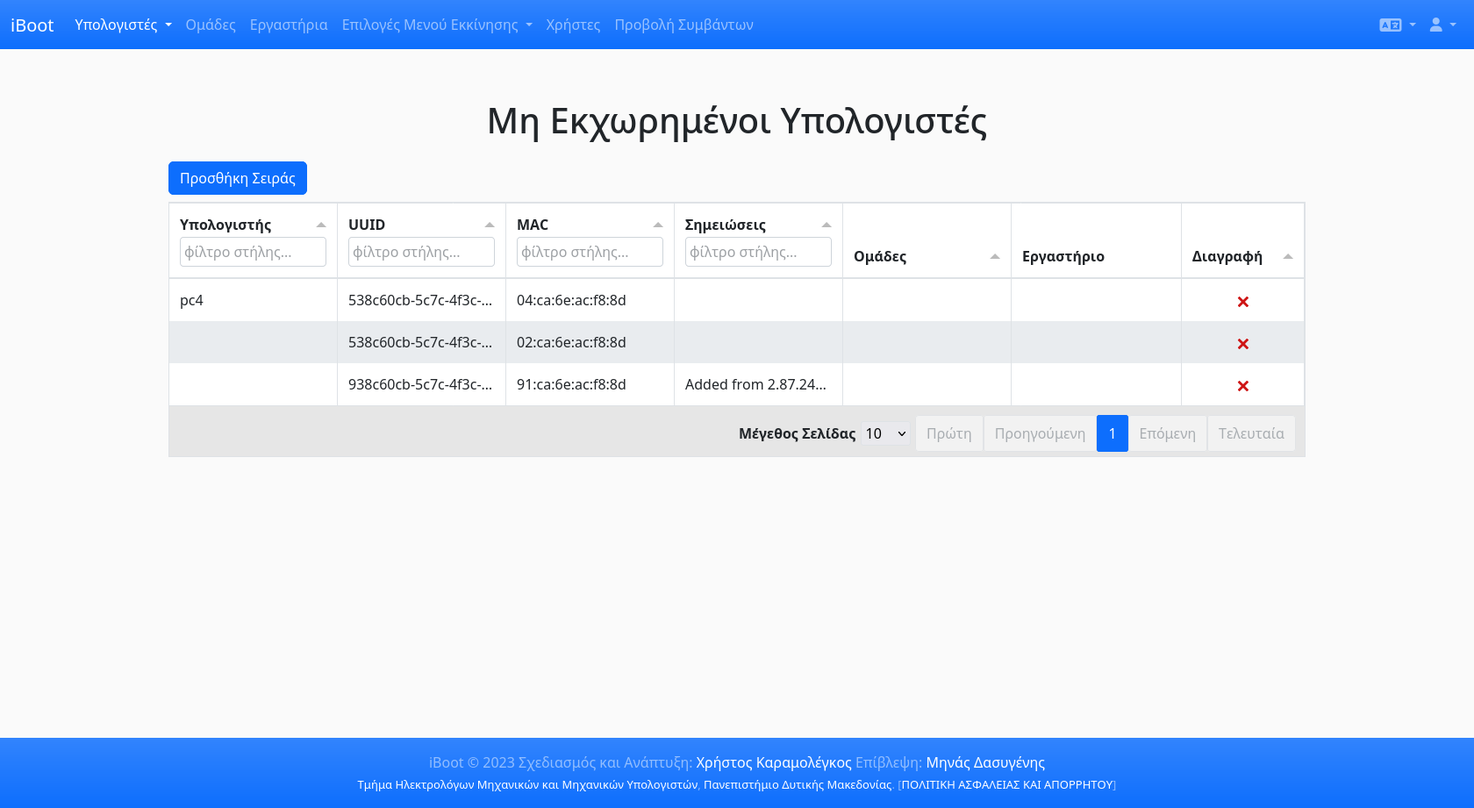
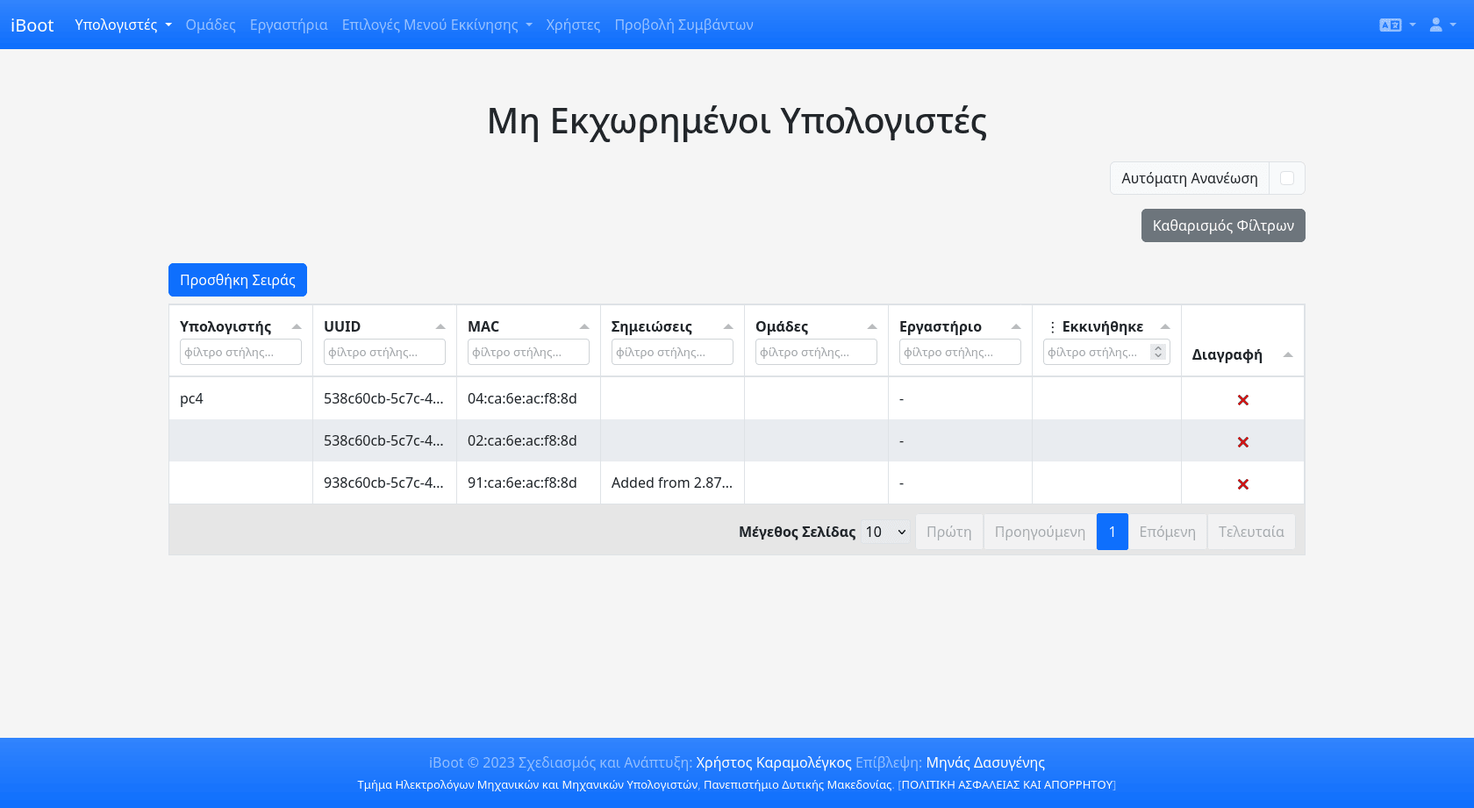
Start writting about computer ui
Env file changes

Expand on computers table

Retake remaining screenshots

Retake groups screenshot because of string change

Also redraw database schema and add new column in computers table

Optimize all images

diff --git a/Chapters/4-Website-User-Interface.tex b/Chapters/4-Website-User-Interface.tex
@@ -38,7 +38,7 @@
 
 \subsection{Αρχική Σελίδα}
 \FloatBarrier
-Η αρχική σελίδα στην οποία μεταφέρεται ο χρήστης μετά τη σύνδεσή του (αν δεν είχε ζητήσει κάποια διαφορετική σελίδα). Όπως φαίνεται στο σχήμα \ref{fig:iBoot_dashboard}, η αρχική σελίδα περιέχει συνδέσμους προς άλλες σημαντικές σελίδες της εφαρμογής.
+Η αρχική σελίδα, προσβάσιμη στη διεύθυνση \verb!/dashboard!, στην οποία μεταφέρεται ο χρήστης μετά τη σύνδεσή του (αν δεν είχε ζητήσει κάποια διαφορετική σελίδα). Όπως φαίνεται στο σχήμα \ref{fig:iBoot_dashboard}, η αρχική σελίδα περιέχει συνδέσμους προς άλλες σημαντικές σελίδες της εφαρμογής.
 \begin{figure}[ht]
 	\centering
 	\includegraphics[scale=0.25]{iBoot-dashboard.png}
@@ -83,17 +83,32 @@
 
 \subsection{Υπολογιστές}
 \FloatBarrier
+Στη σελίδα Διαχειριζόμενων Υπολογιστών, προσβάσιμη στη διεύθυνση \verb!/computers_managed!, ο χρήστης μπορεί να δει τους υπολογιστές των οποίων τα στοιχεία έχει δικαίωμα να διαχειριστεί. Αν ο χρήστης είναι διαχειριστής, βλέπει όλους τους υπολογιστές που έχουν εγγραφεί στην πλατφόρμα. Αν είναι διαχειριστής εργαστηρίου, τότε βλέπει μόνο τους υπολογιστές που βρίσκονται σε εργαστήρια που αυτός διαχειρίζεται.
+Όπως φαίνεται στο σχήμα \ref{fig:iBoot_computers}, ο πίνακας με τα στοιχεία των υπολογιστών αποτελείται από τις παρακάτω στήλες:
+\begin{itemize}
+	\item Υπολογιστής: Το όνομα που έχει δοθεί στον υπολογιστή
+	\item UUID: Το μοναδικό αναγνωριστικό UUID του υπολογιστή
+	\item MAC: Η φυσική διεύθυνση διεπαφής δικτύου (MAC address) του υπολογιστή
+	\item Σημείωση: Πεδίο ελεύθερου κειμένου για διατήρηση σημειώσεων σχετικά με τον υπολογιστή
+	\item Ομάδες: Πεδίο πολλαπλής επιλογής, περιέχει τις ομάδες των οποίων είναι μέλος ο υπολογιστής
+	\item Εργαστήριο: Πεδίο επιλογής, περιέχει το εργαστήριο στο οποίο βρίσκεται ο υπολογιστής
+	\item Τελευταία Εκκίνηση: Χρονοσφραγίδα τελευταίας εκκίνησης του υπολογιστή μέσω του συστήματος.
+	\item Διαγραφή: Κουμπί για τη διαγραφή του υπολογιστή από το σύστημα
+\end{itemize}
+
 \begin{figure}[ht]
 	\centering
 	\includegraphics[scale=0.25]{iBoot-computers.png}
-	\caption{iBoot - Διαχείριση Υπολογιστών}
+	\caption{iBoot - Διαχειριζόμενοι Υπολογιστές}
 	\label{fig:iBoot_computers}
 \end{figure}
+Διαχειριζόμενοι Υπολογιστές θεωρούνται όσοι έχουν τοποθετηθεί σε κάποιο εργαστήριο, από έναν διαχειριστή ή διαχειριστή εργαστηρίου. Όσοι υπολογιστές είναι εγγεγραμμένοι στο σύστημα αλλά δεν έχουν τοποθετηθεί σε κάποιο εργαστήριο, θεωρούνται Μη Εκχωρημένοι και εμφανίζονται σε ξεχωριστό πίνακα, ο οποίος απεικονίζεται στο σχήμα \ref{fig:iBoot_computers_unassigned} και είναι προσβάσιμος στη διεύθυνση \verb!/computers_unassigned!.
+Στον πίνακα με τους Μη Εκχωρημένους Υπολογιστές έχουν πρόσβαση όλοι οι χρήστες, ώστε να μπορούν να τοποθετούν τους υπολογιστές σε εργαστήρια, χωρίς ανάγκη παρέμβασης κάποιου διαχειριστή. Φυσικά, οι διαχειριστές εργαστηρίων μπορούν να τοποθετούν τους υπολογιστές μόνο σε εργαστήρια που οι ίδιοι διαχειρίζονται, ενώ οι διαχειριστές μπορούν να τοποθετούν οποιονδήποτε υπολογιστή σε οποιοδήποτε εργαστήριο, ακόμη και αν κάποιος άλλος χρήστης είχε τοποθετήσει τον υπολογιστή σε άλλο εργαστήριο νωρίτερα. Αντίστοιχα, αν κάποιος αφαιρέσει έναν υπολογιστή από εργαστήριο, τότε αυτός θα εμφανίζεται στον πίνακα των Μη Εκχωρημένων και οποιοσδήποτε θα έχει τη δυνατότητα να τον προσθέσει σε κάποιο εργαστήριο στο οποίο έχει πρόσβαση.
 
 \begin{figure}[ht]
 	\centering
 	\includegraphics[scale=0.25]{iBoot-computers_unassigned.png}
-	\caption{iBoot - Διαχείριση Μη Εκχωρημένων Υπολογιστών}
+	\caption{iBoot - Μη Εκχωρημένοι Υπολογιστές}
 	\label{fig:iBoot_computers_unassigned}
 \end{figure}
 \FloatBarrier
@@ -265,7 +280,7 @@
 Η ασφάλεια των εφαρμογών ιστού είναι ζωτικής σημασίας επειδή οι εφαρμογές ιστού αποτελούν συχνά τον πρωταρχικό στόχο των επιτιθέμενων που επιδιώκουν να αποκτήσουν μη εξουσιοδοτημένη πρόσβαση σε ευαίσθητες πληροφορίες ή να θέσουν σε κίνδυνο τα συστήματα ενός οργανισμού. Για την διασφάλιση της ακαιρεότητας της εφαρμογής και των δεδομένων της, την προστασία της ιδιωτικότητας του κάθε χρήστη της και την εξασφάλιση της εύρυθμης και απρόσκοπτης λειτουργίας της, έχουν αξιοποιηθεί οι πρακτικές ασφαλείας που περιγράφονται παρακάτω.
 
 \subsection{Honeypots}
-Η κλάση Honeypot καθιστά δυνατό τον προσδιορισμό του πότε ένα Bot κάνει μια αίτηση στην διαδικτυακή εφαρμογή. Για να λειτουργεί, θα πρέπει να είναι ενεργοποιημένη στο αρχείο app/Config/Filters.php. Η επίτευξη της λειτουργικότητας γίνεται με την επισύναψη πεδίων εισαγωγής δεδομένων σε οποιαδήποτε φόρμα. Αυτά τα πεδία φόρμας είναι κρυμμένα από έναν άνθρωπο αλλά προσβάσιμα σε ένα Bot. Όταν εισάγονται δεδομένα στο πεδίο, θεωρείται ότι το αίτημα προέρχεται από ένα Bot και επιστρέφεται ένα HoneypotException, διακόπτοντας την εκτέλεση της αίτησης \cite{CodeIgniter_honeypots}.
+Η κλάση Honeypot καθιστά δυνατό τον προσδιορισμό του πότε ένα Bot κάνει ένα αίτημα στην διαδικτυακή εφαρμογή. Για να λειτουργεί, θα πρέπει να είναι ενεργοποιημένη στο αρχείο app/Config/Filters.php. Η επίτευξη της λειτουργικότητας γίνεται με την επισύναψη πεδίων εισαγωγής δεδομένων σε οποιαδήποτε φόρμα. Αυτά τα πεδία φόρμας είναι κρυμμένα από έναν άνθρωπο αλλά προσβάσιμα σε ένα Bot. Όταν εισάγονται δεδομένα στο πεδίο, θεωρείται ότι το αίτημα προέρχεται από ένα Bot και επιστρέφεται ένα HoneypotException, διακόπτοντας την εκτέλεση του αιτήματος \cite{CodeIgniter_honeypots}.
 
 \subsection{CSRF}
 Η κλάση Security περιέχει μεθόδους που βοηθούν στην προστασία διαδικτυακής εφαρμογής από επιθέσεις Cross-Site Request Forgery.
@@ -275,9 +290,9 @@
 Για την πρόληψη και αντιμετώπιση των επιθέσεων CSRF υλοποιούνται οι παρακάτω μέθοδοι προστασίας και εφαρμόζονται σε όλα τα αιτήματα προς την εφαρμογή, πλην αυτών προς διευθύνσεις του REST API της.
 
 \subsubsection{Double Submit Cookie}
-Το Double Submit Cookie είναι μια τεχνική όπου στέλνουμε μια τυχαία τιμή τόσο σε ένα cookie όσο και ως παράμετρος αίτησης, με τον διακομιστή να επαληθεύει αν η τιμή του cookie και η τιμή της αίτησης ταιριάζουν. Όταν ένας χρήστης επισκέπτεται (ακόμη και πριν από την αυθεντικοποίηση για την αποτροπή του CSRF σύνδεσης), ο ιστότοπος παράγει μια κρυπτογραφικά ισχυρή τυχαία τιμή και τη θέτει ως cookie στον υπολογιστή του χρήστη ξεχωριστά από το αναγνωριστικό συνεδρίας. Στη συνέχεια, ο ιστότοπος απαιτεί κάθε αίτημα συναλλαγής να περιλαμβάνει αυτή την τυχαία τιμή ως κρυφή τιμή φόρμας ή στην επικεφαλίδα του αιτήματος. Εάν και οι δύο ταιριάζουν στην πλευρά του διακομιστή, ο διακομιστής το δέχεται ως νόμιμο αίτημα, ενώ εάν δεν ταιριάζουν, θα απορρίψει το αίτημα.
+Το Double Submit Cookie είναι μια τεχνική όπου στέλνουμε μια τυχαία τιμή τόσο σε ένα cookie όσο και ως παράμετρος αιτήματος, με τον διακομιστή να επαληθεύει αν η τιμή του cookie και η τιμή του αιτήματος ταιριάζουν. Όταν ένας χρήστης επισκέπτεται (ακόμη και πριν από την αυθεντικοποίηση για την αποτροπή του CSRF σύνδεσης), ο ιστότοπος παράγει μια κρυπτογραφικά ισχυρή τυχαία τιμή και τη θέτει ως cookie στον υπολογιστή του χρήστη ξεχωριστά από το αναγνωριστικό συνεδρίας. Στη συνέχεια, ο ιστότοπος απαιτεί κάθε αίτημα συναλλαγής να περιλαμβάνει αυτή την τυχαία τιμή ως κρυφή τιμή φόρμας ή στην επικεφαλίδα του αιτήματος. Εάν και οι δύο ταιριάζουν στην πλευρά του διακομιστή, ο διακομιστής το δέχεται ως νόμιμο αίτημα, ενώ εάν δεν ταιριάζουν, θα απορρίψει το αίτημα.
 
-Με λίγα λόγια, ένας εισβολέας δεν μπορεί να έχει πρόσβαση στην τιμή του cookie κατά τη διάρκεια ενός cross-site αιτήματος. Αυτό τους εμποδίζει να συμπεριλάβουν μια τιμή που ταιριάζει στην κρυφή τιμή της φόρμας ή ως παράμετρος/κεφαλίδα αίτησης.
+Με λίγα λόγια, ένας εισβολέας δεν μπορεί να έχει πρόσβαση στην τιμή του cookie κατά τη διάρκεια ενός cross-site αιτήματος. Αυτό τους εμποδίζει να συμπεριλάβουν μια τιμή που ταιριάζει στην κρυφή τιμή της φόρμας ή ως παράμετρος/κεφαλίδα αιτήματος.
 
 \subsubsection{Τυχαιοποίηση token}
 Για να μετριαστούν οι επιθέσεις πλευρικού καναλιού συμπίεσης όπως το BREACH και να αποτραπεί η προσπάθεια ενός εισβολέα από το να μαντέψει τα διακριτικά CSRF, είναι ενεργοποιημένη η τυχαιοποίηση των διακριτικών. Έτσι, μια τυχαία μάσκα προστίθεται στο κάθε token και χρησιμοποιείται για την κρυπτογράφησή του.
@@ -291,7 +306,7 @@
 \subsubsection{Λειτουργία JWT}
 Αρχικά, ο χρήστης ή η εφαρμογή-πελάτης στέλνει ένα αίτημα σύνδεσης. Σε αυτό το βήμα, ουσιαστικά, ένα όνομα χρήστη, ένας κωδικός πρόσβασης ή οποιοσδήποτε άλλος τύπος διαπιστευτηρίων σύνδεσης που παρέχει ο χρήστης θα ταξιδέψει στο API. Μόλις επαληθευτεί, το API θα δημιουργήσει ένα JSON Web Token και θα το υπογράψει χρησιμοποιώντας ένα μυστικό κλειδί. Στη συνέχεια, το API θα επιστρέψει αυτό το token πίσω στην εφαρμογή-πελάτη.
 
-Τέλος, η εφαρμογή-πελάτης θα λάβει το token, θα το επαληθεύσει στη δική της πλευρά για να διασφαλίσει ότι είναι αυθεντικό και στη συνέχεια θα το χρησιμοποιήσει σε κάθε επόμενη αίτηση. Ως εκ τούτου, μπορεί να πιστοποιήσει τον χρήστη χωρίς να χρειάζεται να στείλει πλέον τα διαπιστευτήριά του.
+Τέλος, η εφαρμογή-πελάτης θα λάβει το token, θα το επαληθεύσει στη δική της πλευρά για να διασφαλίσει ότι είναι αυθεντικό και στη συνέχεια θα το χρησιμοποιήσει σε κάθε επόμενο αίτημα. Ως εκ τούτου, μπορεί να πιστοποιήσει τον χρήστη χωρίς να χρειάζεται να στείλει πλέον τα διαπιστευτήριά του.
 
 Η διαδικασία έκδοσης και χρήσης JWT token απεικονίζεται στο σχήμα \ref{fig:JWT_authentication}.
 
@@ -307,9 +322,9 @@
 
 To header περιέχει δεδομένα σχετικά με τον τύπο του κουπονιού και τον αλγόριθμο που χρησιμοποιείται για τη δημιουργία του.
 
-Το payload περιέχει δεδομένα σχετικά με την αίτηση και τον χρήστη που την υπέβαλε. Υπάρχει ένα σύνολο τυποποιημένων ζευγών κλειδιών/τιμών που ορίζονται ως μέρος του JWT, τα οποία μπορούν να χρησιμοποιηθούν:
+Το payload περιέχει δεδομένα σχετικά με το αίτημα και τον χρήστη που την υπέβαλε. Υπάρχει ένα σύνολο τυποποιημένων ζευγών κλειδιών/τιμών που ορίζονται ως μέρος του JWT, τα οποία μπορούν να χρησιμοποιηθούν:
 \begin{itemize}
-  \item Sub (Subject): Προσδιορίζει τον χρήστη που κάνει την αίτηση και πιστοποιείται.
+  \item Sub (Subject): Προσδιορίζει τον χρήστη που κάνει το αίτημα και πιστοποιείται.
   \item Iss (Issuer): Ο διακομιστής που εξέδωσε το token. Στην περίπτωσή μας, θα είχε νόημα να συμπεριλάβουμε το URI που χρησιμοποιείται
   \item Aud (Audience): Παρέχει κάποια μορφή ταυτοποίησης του παραλήπτη αυτού του κουπονιού.
   \item Exp (Ημερομηνία λήξης): Τα κουπόνια συνήθως δεν διαρκούν για πάντα. Η Exp εξασφαλίζει ότι όποιος χρησιμοποιεί το token παρέχει ένα πρόσφατα δημιουργημένο token.

diff --git a/Appendices/Installation-Instructions.tex b/Appendices/Installation-Instructions.tex
@@ -18,7 +18,7 @@
 
 Τέλος, για το php-curl, είναι απαραίτητη και η εγκατάσταση του libcurl στο μηχάνημα.
 
-Η πλατφόρμα έχει δοκιμαστεί επιτυχώς με PHP έκδοσης 8.1 και χρήση php-fpm.
+Η πλατφόρμα έχει δοκιμαστεί επιτυχώς με PHP έκδοσης 8.2 και χρήση php-fpm.
 
 \subsection{Βάση Δεδομένων}
 Για τη βάση δεδομένων της πλατφόρμας απαιτείται MySQL/MariaDB έκδοσης 5.1 ή νεότερη.
@@ -56,6 +56,6 @@
 \section{Αλλαγή Ρυθμίσεων Πλατφόρμας}
 Τα αρχεία που βρίσκονται στη διαδρομή \verb!app/Config/! περιέχουν τις ρυθμίσεις της εφαρμογής με επεξηγηματικά σχόλια για κάθε μια ξεχωριστά. Αλλαγές στις ρυθμίσεις μπορούν να γίνουν με απευθείας επεξεργασία αυτών των αρχείων. Ωστόσο, είναι δυνατή η δημιουργία ενός .env αρχείου, το οποίο παρέχει μεταβλητές περιβάλλοντος, των οποίων οι τιμές υπερκαλύπτουν αυτές των αρχείων της διαδρομής \verb!app/Config/!.
 
-Μαζί με τον κώδικα της εφαρμογής, παρέχεται ένα env αρχείο το οποίο μπορεί κανείς να αντιγράψει ή μετονομάσει σε .env και να κάνει εκεί τις αλλαγές που χρειάζονται για τη ρύθμιση της εγκατάστασης. Το αρχείο .env είναι σημαντικό να δημιουργηθεί, καθώς εκεί πρέπει να ρυθμιστεί η μεταβλητή \textbf{JWT\_SECRET}, η οποία, σε αντίθεση με τις υπόλοιπες μεταβλητές που εμφανίζονται στο πρότυπο αρχείο env, \textbf{δεν} μπορεί να ρυθμιστεί από κάποιο διαφορετικό σημείο και \textbf{είναι απαραίτητη} για τη λειτουργία του API της εφαρμογής. Ως \textbf{JWT\_SECRET} αρκεί να οριστεί ένα τυχαίο αλφαριθμητικό, το οποίο μπορεί να δημιουργηθεί και τυχαία με χρήση κάποιας εντολής όπως \verb!openssl rand -base64 30!. Στην απεικόνιση \ref{lst:env-file} παρουσιάζεται ένα ενδεικτικό αρχείο .env.
+Μαζί με τον κώδικα της εφαρμογής, παρέχεται ένα env αρχείο το οποίο μπορεί κανείς να αντιγράψει ή μετονομάσει σε .env και να κάνει εκεί τις αλλαγές που χρειάζονται για τη ρύθμιση της εγκατάστασης. Στην απεικόνιση \ref{lst:env-file} παρουσιάζεται ένα ενδεικτικό αρχείο .env.
 
 \lstinputlisting[backgroundcolor=\color{yellow!10}, frame=single, caption={Παράδειγμα αρχείου .env}, label={lst:env-file}]{Appendices/env-file.txt}

diff --git a/Chapters/3-System-Analysis/4-Database-Schema.tex b/Chapters/3-System-Analysis/4-Database-Schema.tex
@@ -40,6 +40,7 @@
 	mac & char(17) & Όχι &  &  & Η φυσική διεύθυνση διεπαφής δικτύου του υπολογιστή \\ \hline
 	notes & text & Ναι & NULL &  & Σημειώσεις για τον υπολογιστή \\ \hline
 	lab & int(10) & Ναι & ΚΕΝΟ & labs (id) & Αναγνωριστικό εργαστηρίου στο οποίο βρίσκεται ο υπολογιστής \\ \hline
+	last\_boot & datetime & Ναι & ΚΕΝΟ & labs (id) & Ημερομηνία και ώρα τελευταίας εκκίνησης του υπολογιστή μέσω του συστήματος \\ \hline
 \end{longtable}
 
 %
@@ -78,8 +79,8 @@
 	\hline \multicolumn{1}{|c|}{\textbf{Στήλη}} & \multicolumn{1}{|c|}{\textbf{Τύπος}} & \multicolumn{1}{|c|}{\textbf{Κενό}} & \multicolumn{1}{|c|}{\textbf{Προεπιλογή}} & \multicolumn{1}{|c|}{\textbf{Σύνδεσμος}} & \multicolumn{1}{|c|}{\textbf{Σχόλιο}} \\ \hline \hline \endhead \endfoot
 	\textbf{\textit{id}} & int(10) & Όχι &  &  & Αναγνωριστικό οντότητας \\ \hline
 	name & varchar(20) & Όχι &  &  & Όνομα ομάδας \\ \hline
-	image\_server\_ip & varchar(15) & Όχι &  &  & Διεύθυνση server εικόνων \\ \hline
-	image\_server\_prefix\_path & varchar(50) & Όχι &  &  & Πρόθεμα διεύθυνσης εικόνων \\ \hline
+	image\_server\_ip & varchar(15) & Όχι &  &  & Διεύθυνση διακομιστή εικόνων \\ \hline
+	image\_server\_path\_prefix & varchar(50) & Όχι &  &  & Πρόθεμα διαδρομής εικόνων στον διακομιστή \\ \hline
 \end{longtable}
 
 %
